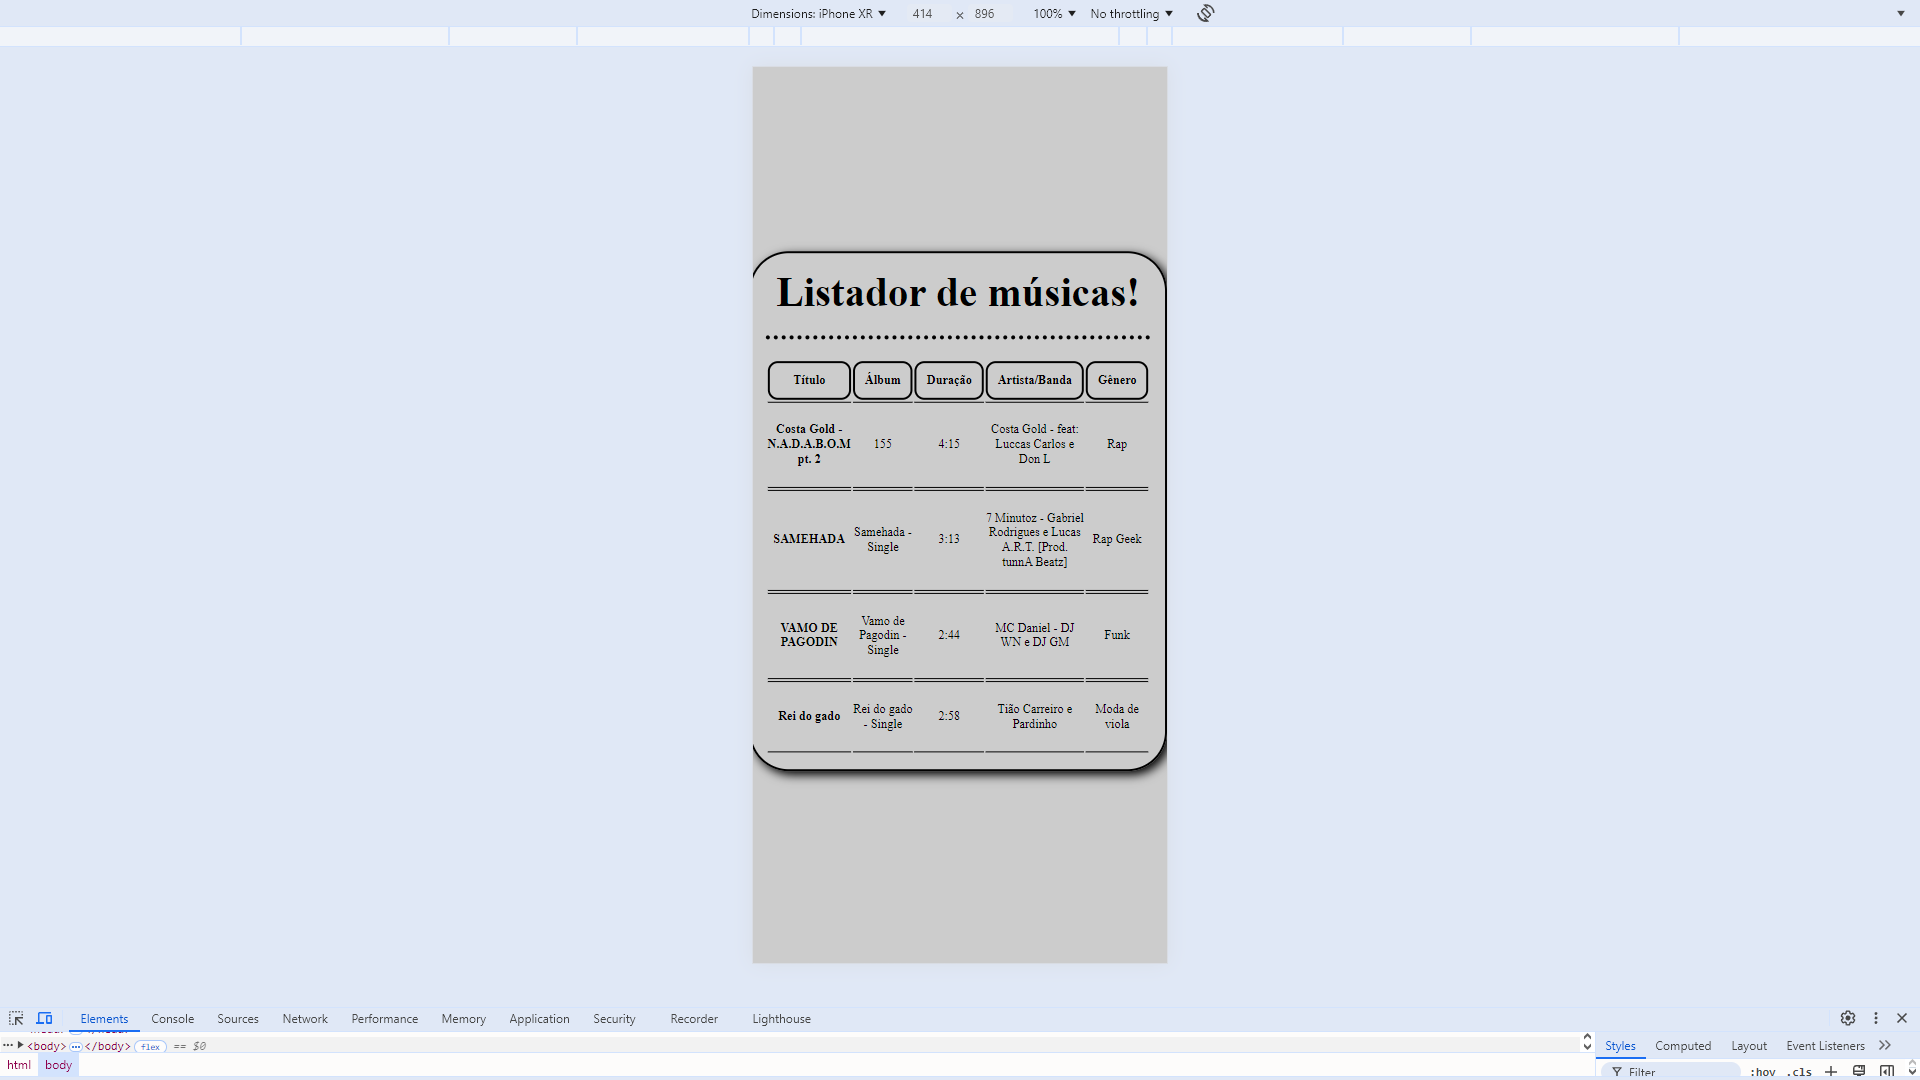
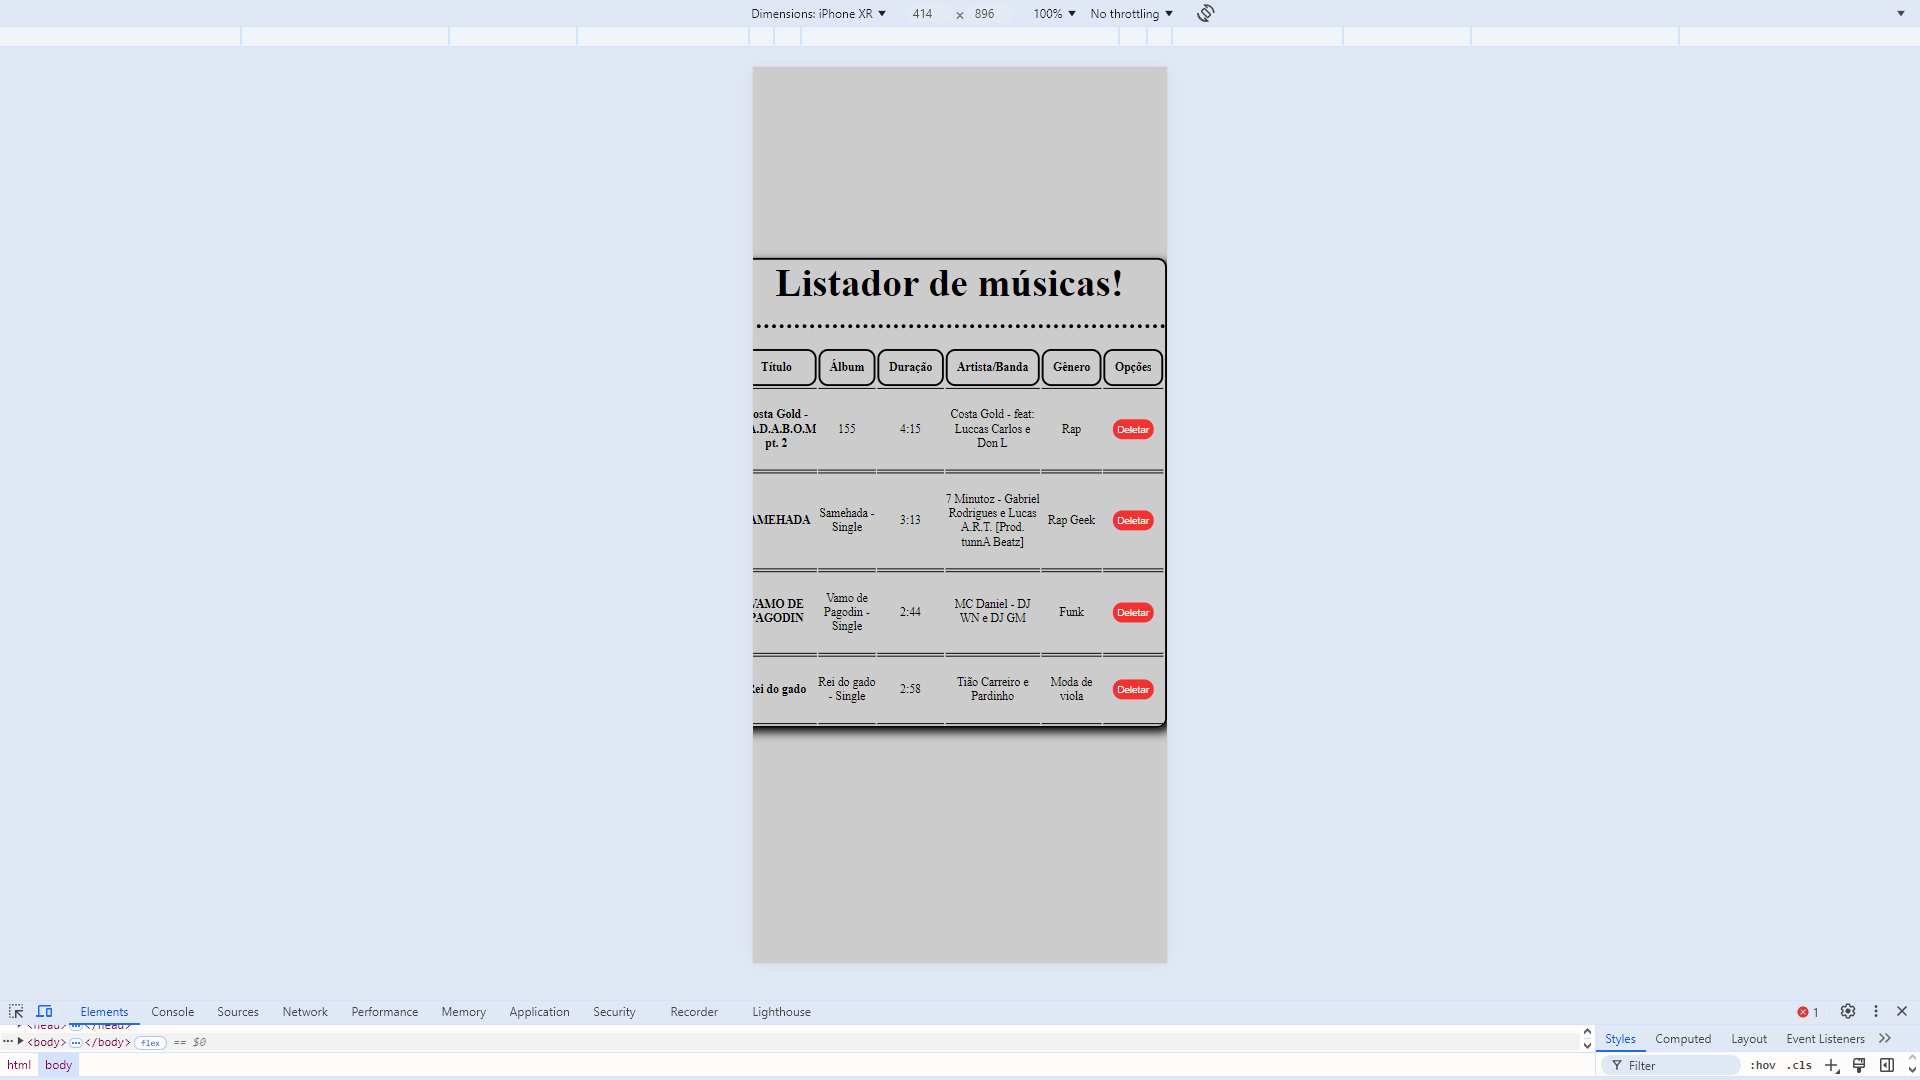
feat(table): create the delete option to the items on music list

Changed region(s): [[0.375, 0.2139, 0.625, 0.7333], [0.0, 0.9167, 1.0, 1.0]]

diff --git a/src/services/getMusics.service.ts b/src/services/getMusics.service.ts
@@ -9,8 +9,26 @@ import { MusicsTableProps } from '../types/musicsTableProps';
 
 // This service get the musics from the back-end (json-server in this case). But, if the get return a error, this service will return a default values ( This is good for don`t need install this application on the user Computer, and to use on mobile phone too)
 export class getMusicsService {
+  constructor(private http:HttpClient) { }
+
+  getMusics(): Observable<Array<MusicsTableProps>> {
+    return this.http.get<Array<MusicsTableProps>>('http://localhost:3000/musics').pipe(
+      catchError(err => {
+        // If the get return a error, this service will return the default values. Please, read the top of this service
+        alert('🚨 Alerta 🚨: Você iniciou o site sem instalar a aplicação no seu computador (siga a documentação com o passo a passo no github se precisar) então vale ressaltar que neste modo você consegue ter acesso as músicas existentes mas não consegue deletar nenhuma!');
+        console.log(`Ocorreu um erro a fazer a requisição. Mostrando os dados padrões... \nErro: ${err}`);
+        return of(this.defaultMusics);
+      })
+    )
+  }
+
+  delete(music: MusicsTableProps): Observable<void> {
+    return this.http.delete<void>(`http://localhost:3000/musics/${music.id}`);
+  }
+
   defaultMusics: Array<MusicsTableProps> = [
     {
+      id: 1,
       title: "Costa Gold - N.A.D.A.B.O.M pt. 2",
       album: "155",
       duration: "4:15",
@@ -18,6 +36,7 @@ export class getMusicsService {
       genre: "Rap"
     },
     {
+      id: 2,
       title: "SAMEHADA",
       album: "Samehada - Single",
       duration: "3:13",
@@ -25,6 +44,7 @@ export class getMusicsService {
       genre: "Rap Geek"
     },
     {
+      id: 3,
       title: "VAMO DE PAGODIN",
       album: "Vamo de Pagodin - Single",
       duration: "2:44",
@@ -32,6 +52,7 @@ export class getMusicsService {
       genre: "Funk"
     },
     {
+      id: 4,
       title: "Rei do gado",
       album: "Rei do gado - Single",
       duration: "2:58",
@@ -39,16 +60,4 @@ export class getMusicsService {
       genre: "Moda de viola"
     }
   ];
-
-  constructor(private http:HttpClient) { }
-
-  getMusics(): Observable<Array<MusicsTableProps>> {
-    return this.http.get<Array<MusicsTableProps>>('http://localhost:3000/musics').pipe(
-      catchError(err => {
-        // If the get return a error, this service will return the default values. Please, read the top of this service
-        console.log(`Ocorreu um erro a fazer a requisição. Mostrando os dados padrões... \nErro: ${err}`);
-        return of(this.defaultMusics);
-      })
-    )
-  }
 }

diff --git a/src/app/app.module.ts b/src/app/app.module.ts
@@ -4,11 +4,13 @@ import { HttpClientModule } from '@angular/common/http';
 import { AppRoutingModule } from './app-routing.module';
 import { AppComponent } from './app.component';
 import { MusicsTableComponent } from './musics-table/musics-table.component';
+import { ButtonDeleteComponent } from '../components/button-delete/button-delete.component';
 
 @NgModule({
   declarations: [
     AppComponent,
-    MusicsTableComponent
+    MusicsTableComponent,
+    ButtonDeleteComponent
   ],
   imports: [
     BrowserModule,

diff --git a/src/app/musics-table/musics-table.component.html b/src/app/musics-table/musics-table.component.html
@@ -9,6 +9,7 @@
                 <th>Duração</th>
                 <th>Artista/Banda</th>
                 <th>Gênero</th>
+                <th>Opções</th>
             </tr>
         </thead>
         <tbody>
@@ -18,6 +19,7 @@
                 <td>{{music.duration}}</td>
                 <td>{{music.artistOrBand}}</td>
                 <td>{{music.genre}}</td>
+                <td><app-button-delete (click)="delete(music)"></app-button-delete></td>
             </tr>
         </tbody>
     </table>

diff --git a/src/app/musics-table/musics-table.component.ts b/src/app/musics-table/musics-table.component.ts
@@ -13,7 +13,6 @@ export class MusicsTableComponent implements OnInit {
 
   constructor(private service: getMusicsService){};
 
-  
   ngOnInit(): void {
     this.loadMusics();
   }
@@ -23,5 +22,11 @@ export class MusicsTableComponent implements OnInit {
     this.service.getMusics().subscribe({
       next: data => this.musics = data  
     });
+  }
+
+  delete(music: MusicsTableProps) {
+    this.service.delete(music).subscribe({
+      next: () => this.loadMusics()
+    })
   }
 }

diff --git a/src/components/button-delete/button-delete.component.css b/src/components/button-delete/button-delete.component.css
@@ -1,0 +1,16 @@
+button {
+    background-color: rgba(255, 0, 0, 0.76);
+    color: white;
+    border: none;
+    border-radius: 10px;
+    padding: 10px;
+    font-weight: 300;
+    cursor: pointer;
+}
+
+@media (max-width: 480px) {
+    button {
+        padding: 5px;
+        font-size: 2.5vw;
+    }
+}

diff --git a/src/app/musics-table/musics-table.component.css b/src/app/musics-table/musics-table.component.css
@@ -65,7 +65,8 @@ section#musicsTableSection > table > tbody > tr > th, td {
 
 @media (max-width: 480px) {
     section#musicsTableSection {
-        padding: 15px;
+        padding: 0px;
+        border-radius: 10px;
     }
     
     section#musicsTableSection > hr {

diff --git a/src/components/button-delete/button-delete.component.ts b/src/components/button-delete/button-delete.component.ts
@@ -1,0 +1,9 @@
+import { Component } from '@angular/core';
+
+@Component({
+  selector: 'app-button-delete',
+  templateUrl: './button-delete.component.html',
+  styleUrl: './button-delete.component.css'
+})
+export class ButtonDeleteComponent {
+}

diff --git a/src/types/musicsTableProps.ts b/src/types/musicsTableProps.ts
@@ -1,4 +1,5 @@
 export type MusicsTableProps = {
+    id: number,
     title: string;
     album: string;
     duration: string;

diff --git a/src/components/button-delete/button-delete.component.html b/src/components/button-delete/button-delete.component.html
@@ -1,0 +1,1 @@
+<button>Deletar</button>

diff --git a/README.md b/README.md
@@ -1,6 +1,6 @@
 # Desafio Angular - Listador de músicas! 🌟
 
-### Commit: 16/09/2024 - 10:21 (Criado o nosso "back-end falso" usando o json-server para nossas músicas e caso aconteça algum erro ao fazer a requisição get (Caso a pessoa não tenha colocado o programa no computador ou se estiver no celular) ele irá mostrar o valor padrão (os mesmos dados do json-server))
+### Commit: 16/09/2024 - 12:01 (Criado o novo componente, um componente chamado button-delete. Ele é responsável por apagar as músicas que o usuário escolher)
 
 #
 
@@ -17,23 +17,31 @@
 
 ## ✔ Alterações deste commit:
 
-## Alterações na pasta: ( src / db.json)
+## Alterações na pasta: ( src / db.json )
 
-## Alterações nas pastas de ( src ): ( app / services / types )
+## Alterações nas pastas de ( src ): ( app / assets / components / services / types )
 
 ### app:
-- app > musics-table > musics.table-component.spec.ts: Arquivo criado neste commit para fazer um teste básico para garantir que o MusicsTableComponent seja instanciado corretamente.
+- app > musics-table > musics.table-component.css: Pequena alteração na estilização quando está com o width de 480px para menos. (celulares)
 
-- app > musics-table > musics-table.component.ts: adicionamos o código necessário para que ao iniciar o site, pegue os nossos produtos no back-end e retorne para o array para assim mostrar na tabela. (caso ocorra um erro na requisição ao json-server retorna um valor default).
+- app > musics-table > musics.table-component.html: Adicionado o campo "opções" que possui o botão de deletar.
 
-- app > app.module.ts: Adicionado a importação do HttpClientModule.
+- app > musics-table > musics-table.component.ts: Adicionado a função "delete".
 
-- services > getMusics.service.ts: É onde está o código responsável por fazer a requisição ao back-end e retornar os dados. Como já dito anteriormente, caso não exista os dados ele irá retornar um valor default.
+- app > app.module.ts: Adicionado a declaração do ButtonDeleteComponent.
 
-- types > musicsTableProps.ts: Exporta a tipagem da tabela de músicas.
+- assets: Adicionado as duas novas fotos de como está o site no atual momento com os botões de delete (fotos para usar neste readme).
+
+- components: Criado a pasta components e dentro a pasta button-delete.
+
+- components > button-delete: Criado o componente do botão de deletar, junto da sua estilização.
+
+- services > getMusics.service.ts: Adicionado a função "delete" e também o alerta de que se o usuário estiver usando a versão do navegador não será possível usar o botão de deletar. Além de também ter adicionado os IDs nos valores defaults.
+
+- types > musicsTableProps.ts: Adicionado o ID como tipagem da tabela de músicas.
 
 ## Alterações no arquivo de ( db.json ):
-- db.json: Criado o nosso back-end falso usando o json-server e adicionando neste arquivo os nossos dados de músicas.
+- db.json: Adicionado o ID em casa objeto. Pois o Json-server faz o delete com o ID - (Informação encontrada na documentação do Json-Server no NPM. Link da documentação: https://www.npmjs.com/package/json-server)
 
 ##
 
